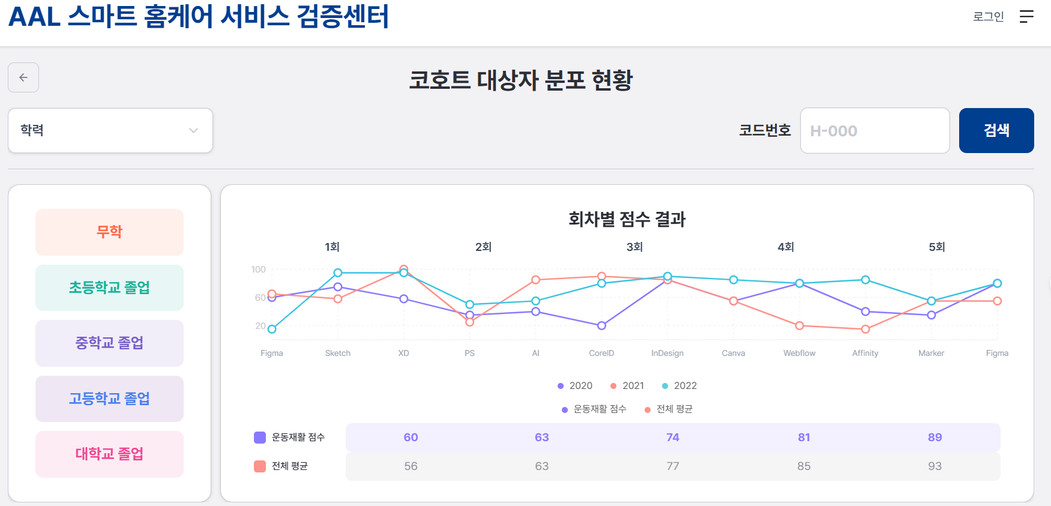
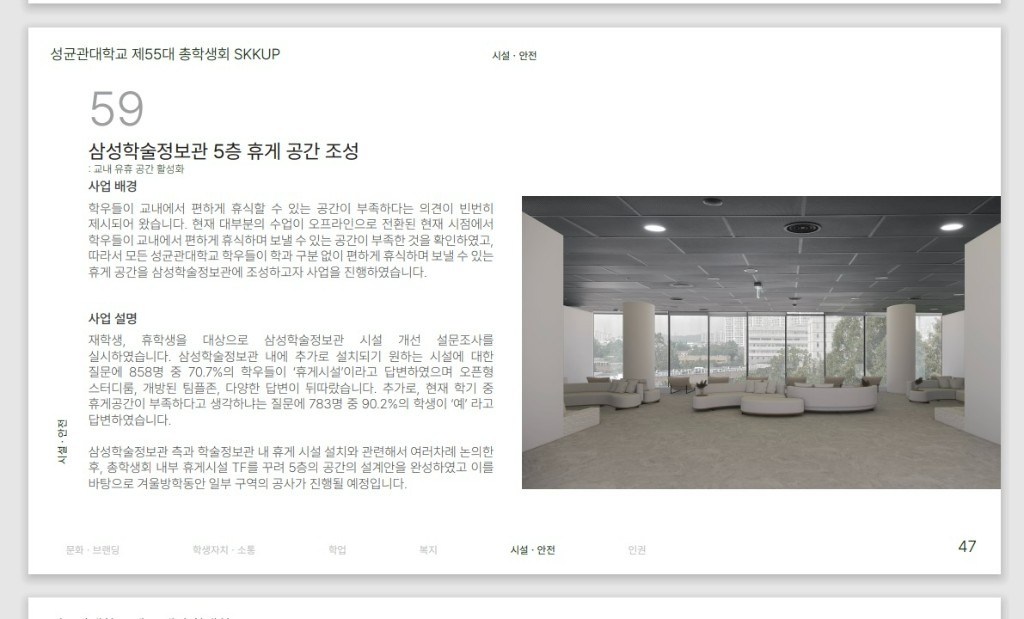
feat: 프로젝트 카드 이미지 교체 및 카드 내 이미지 크기 확대

diff --git a/src/components/ProjectCard.tsx b/src/components/ProjectCard.tsx
@@ -29,16 +29,16 @@ export default function ProjectCard({ work, onClick, className = "", compact = f
             {works.openHint}
           </p>
         </div>
-        <div className="relative flex aspect-[5/3] items-center justify-center overflow-hidden bg-dark-surf p-4 sm:p-5 transform-gpu will-change-transform">
+        <div className="relative aspect-[5/3] overflow-hidden bg-dark-surf transform-gpu will-change-transform">
           {work.image ? (
-            <div className="relative h-full w-full max-w-[65%] transform-gpu will-change-transform">
+            <div className="relative h-full w-full transform-gpu will-change-transform">
               <Image
                 src={work.image}
                 alt={work.title}
                 fill
-                className="object-contain sharp-image transition-transform duration-500 group-hover:scale-105"
+                className="object-contain sharp-image transition-transform duration-500 group-hover:scale-[1.03]"
                 sizes="(max-width: 768px) 100vw, 36vw"
-                quality={88}
+                quality={90}
               />
             </div>
           ) : (
@@ -57,16 +57,16 @@ export default function ProjectCard({ work, onClick, className = "", compact = f
       onClick={onClick}
       className={`gallery-card group flex w-full flex-col overflow-hidden rounded-3xl border border-border bg-surface text-left text-text opacity-100 transition-all duration-300 hover:scale-[1.02] hover:border-accent hover:shadow-xl ${className}`}
     >
-      <div className="relative flex aspect-[4/3] items-center justify-center overflow-hidden bg-dark-surf p-6 sm:p-8 transform-gpu will-change-transform">
+      <div className="relative aspect-[4/3] overflow-hidden bg-dark-surf transform-gpu will-change-transform">
         {work.image ? (
-          <div className="relative h-full w-full max-w-[70%] transform-gpu will-change-transform">
+          <div className="relative h-full w-full transform-gpu will-change-transform">
             <Image
               src={work.image}
               alt={work.title}
               fill
-              className="object-contain sharp-image transition-transform duration-500 group-hover:scale-105"
+              className="object-contain sharp-image transition-transform duration-500 group-hover:scale-[1.03]"
               sizes="(max-width: 768px) 100vw, 40vw"
-              quality={88}
+              quality={90}
             />
           </div>
         ) : (

diff --git a/src/components/ProjectPanel.tsx b/src/components/ProjectPanel.tsx
@@ -206,7 +206,7 @@ export default function ProjectPanel({ work, onClose }: ProjectPanelProps) {
                       src={work.image}
                       alt={work.title}
                       fill
-                      className="object-contain sharp-image p-3"
+                      className="object-contain sharp-image"
                       sizes="120px"
                       quality={88}
                     />